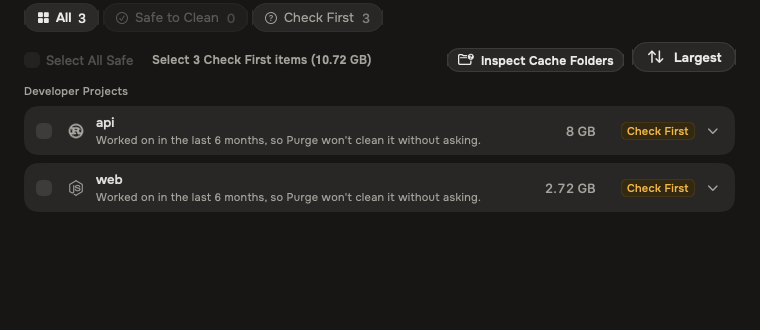
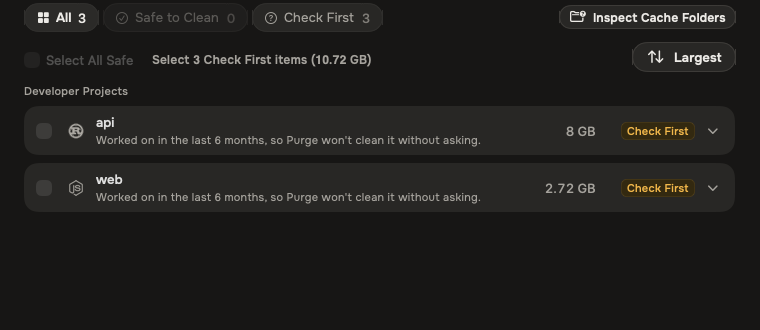
fix: fit the cache inspector beside Dev Tools filters

Changed region(s): [[0.7263, 0.0303, 0.9684, 0.0909], [0.575, 0.1515, 0.8171, 0.2121]]

diff --git a/purge/Views/DevModeView.swift b/purge/Views/DevModeView.swift
@@ -20,8 +20,8 @@ struct DevToolsView: View {
         self.usesExternalScrollContainer = usesExternalScrollContainer
     }
 
-    @State private var showsCacheInspector = false
     @State private var expandedProjectRoots = Set<String>()
+    @State private var showsCacheInspector = false
 
     /// The keyboard highlight and keys (#96). Held as a plain reference so this
     /// view never observes the highlight; only the rows do.
@@ -656,17 +656,11 @@ struct DevToolsView: View {
             }
         }
         .background(AppColors.surfaceBase)
-        .sheet(isPresented: $showsCacheInspector) {
-            CacheFolderInspectorSheet(
-                root: FileManager.default.homeDirectoryForCurrentUser.appendingPathComponent(".cache", isDirectory: true),
-                knownPaths: knownCacheInspectorPaths
-            )
-        }
         .scanListKeyboard(
             keyboard,
             rows: keyboardRows,
             actions: keyboardActions,
-            isBlocked: { [store] in showsCacheInspector || store.isShowingReviewOrCleaning || store.isAnotherSheetOpen }
+            isBlocked: { [store] in store.isShowingReviewOrCleaning || store.isAnotherSheetOpen }
         )
     }
 
@@ -871,8 +865,22 @@ struct DevToolsView: View {
     }
 
     private var filterToolbarChrome: some View {
-        SafetyFilterChipRow(safetyFilter: safetyFilterBinding, chipCounts: chipCounts)
-            .padding(.horizontal, AppDetailPageLayout.horizontalInset)
+        HStack(spacing: AppStyle.Spacing.small) {
+            SafetyFilterChipRow(safetyFilter: safetyFilterBinding, chipCounts: chipCounts)
+            Button {
+                showsCacheInspector = true
+            } label: {
+                Label("Inspect Cache Folders", systemImage: "folder.badge.questionmark")
+            }
+            .buttonStyle(.purge(.secondary, size: .small))
+            .sheet(isPresented: $showsCacheInspector) {
+                CacheFolderInspectorSheet(
+                    root: FileManager.default.homeDirectoryForCurrentUser.appendingPathComponent(".cache", isDirectory: true),
+                    knownPaths: knownCacheInspectorPaths
+                )
+            }
+        }
+        .padding(.horizontal, AppDetailPageLayout.horizontalInset)
     }
 
     /// Bottom edge of the blur zone — list rows fade under this row only.
@@ -883,12 +891,6 @@ struct DevToolsView: View {
             HStack(alignment: .bottom) {
                 SafeFirstSelectAllControl(model: selectAll, apply: applySelectAll)
                 Spacer()
-                Button {
-                    showsCacheInspector = true
-                } label: {
-                    Label("Inspect Cache Folders", systemImage: "folder.badge.questionmark")
-                }
-                .buttonStyle(.purge(.secondary, size: .small))
                 AppSortMenu(selection: sortOptionBinding)
             }
             .scanTabSelectAllRowLayout()
